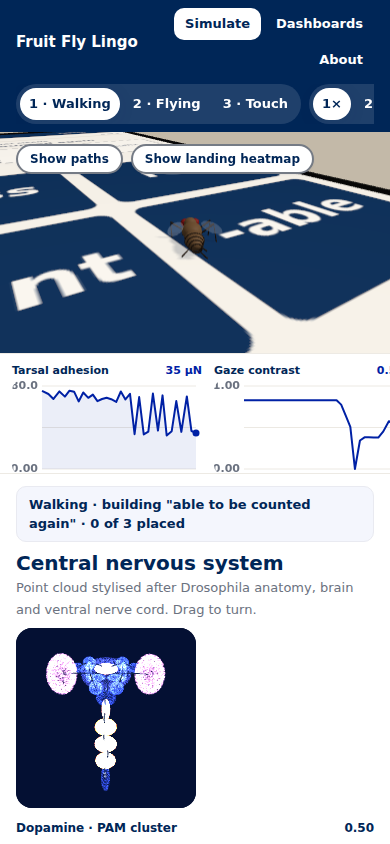
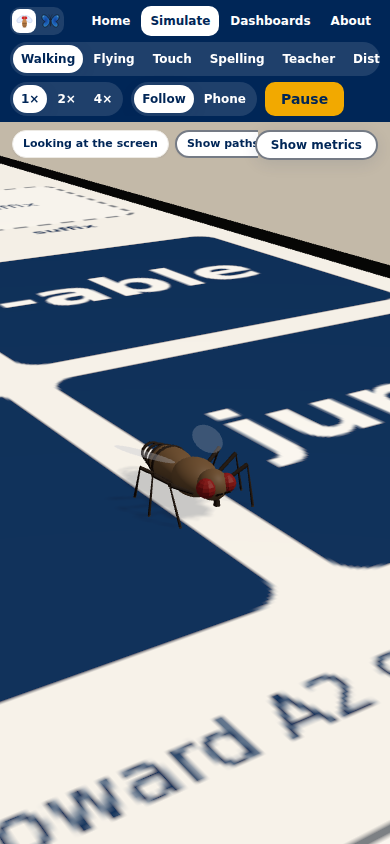
Mobile layout: a Hide metrics toggle and a full-screen arena on phones
A Hide metrics / Show metrics button hides the dashboard dock, the
telemetry strip and the scenario panel so the 3D view fills the stage, on
any screen size; phones start that way and the choice is remembered.
The experiment list now scrolls in place so speed, camera and Play are
always reachable; the follow camera pulls back on portrait screens; the
fly-eye inset gives way on short screens; landscape phones show only the
arena; the phase pill stays visible and the phone header is tighter.

diff --git a/index.html b/index.html
@@ -39,6 +39,7 @@ header .brand{display:flex;flex-direction:column;gap:2px;min-width:0}
 .seg{display:flex;gap:4px;padding:4px;background:rgba(255,255,255,.12);border-radius:999px;flex-shrink:0}
 .seg button{height:32px;padding:0 12px;border:0;border-radius:999px;background:transparent;color:#fff;font:700 14px/20px var(--display);cursor:pointer;white-space:nowrap}
 .seg button[aria-pressed="true"]{background:#fff;color:var(--dark-blue);box-shadow:var(--shadow-raised)}
+.simctl>.seg:first-child{flex-shrink:1;min-width:0;overflow-x:auto;scrollbar-width:none}.simctl>.seg:first-child::-webkit-scrollbar{display:none}
 .btn{display:inline-flex;align-items:center;justify-content:center;height:40px;padding:0 16px;border-radius:10px;font:700 16px/20px var(--display);cursor:pointer;border:2px solid transparent;text-decoration:none;white-space:nowrap}
 .btn-accent{background:var(--alachua);color:var(--dark-blue);border-color:var(--dark-blue)}
 header .btn-accent{border-color:var(--alachua);flex-shrink:0}
@@ -52,6 +53,13 @@ main{flex-grow:1;min-height:0;display:flex;flex-direction:column}
 /* ---- simulate ---- */
 #stage{position:relative;height:100%;display:grid;grid-template-columns:var(--dock-w) minmax(0,1fr) var(--panel-w);grid-template-rows:minmax(0,1fr) var(--dock-h)}
 #stage.nodock{--dock-w:0px}
+/* focus: hide every metrics panel so the 3D view fills the stage */
+#stage.focus{--dock-w:0px;--panel-w:0px;--dock-h:0px;grid-template-columns:minmax(0,1fr);grid-template-rows:minmax(0,1fr)}
+#stage.focus #scene{grid-column:1;grid-row:1}
+#stage.focus #dockLeft,#stage.focus #dockBottom,#stage.focus #brainPanel,#stage.focus #dockHide,#stage.focus #expNote{display:none}
+#metricsBtn{position:absolute;left:calc(var(--dock-w) + 16px);bottom:calc(var(--dock-h) + 16px);z-index:2;height:36px;padding:0 14px;font-size:13px;box-shadow:var(--shadow-raised)}
+@media (min-width:1281px){#stage:not(.focus) #metricsBtn{left:calc(var(--dock-w) + 136px)}}
+#stage.focus #metricsBtn{bottom:calc(16px + env(safe-area-inset-bottom,0px))}
 #vision{position:absolute;pointer-events:none}
 #scene{display:block;grid-column:2;grid-row:1;width:100%;height:100%;min-width:0;min-height:0;touch-action:none}
 #dockLeft{grid-column:1;grid-row:1/3;background:var(--surface-card);border-right:1px solid var(--border);display:flex;flex-direction:column;min-height:0;overflow:hidden}
@@ -231,10 +239,13 @@ pre.mermaid svg{max-width:none;height:auto}
   #stage{grid-template-columns:minmax(0,1fr);grid-template-rows:minmax(0,1fr) var(--dock-h) auto}
   #scene{grid-column:1;grid-row:1}
   #dockBottom{grid-column:1;grid-row:2}
-  #brainPanel{grid-column:1;grid-row:3;width:auto;max-height:44vh;border-left:0;border-top:1px solid var(--border);flex-direction:row;flex-wrap:wrap;gap:12px;padding:12px 16px}
+  #brainPanel{grid-column:1;grid-row:3;width:auto;max-height:34vh;border-left:0;border-top:1px solid var(--border);flex-direction:row;flex-wrap:wrap;gap:12px;padding:12px 16px}
+  #stage:not(.focus){grid-template-rows:minmax(52vh,1fr) var(--dock-h) auto}
+  #dockBottom .mini{flex:0 0 150px}
+  #metricsBtn,#stage.focus #metricsBtn{left:auto;right:12px;bottom:auto;top:8px;height:30px;font-size:12px}
   #brainPanel>section{flex:1 1 240px;min-width:0}
   #brain{width:180px;aspect-ratio:1/1}
-  #state{right:16px}#expNote{display:none}#eyeLabel{display:none}
+  #state{right:132px}#expNote{display:none}#eyeLabel{display:none}
   .tabs a{height:36px;padding:0 12px;font-size:14px}
   .span4,.span6,.span8{grid-column:span 12}
   .page-inner{padding:16px 16px 48px;gap:16px}
@@ -248,7 +259,21 @@ pre.mermaid svg{max-width:none;height:auto}
   .tabs{flex-wrap:wrap;justify-content:flex-end}
   .tabs a{height:32px;padding:0 9px;font-size:13px}
   .seg button{padding:0 9px;font-size:13px}
+  #state .pill:not(.toggle):not(#phasePill){display:none}
+  #state{flex-wrap:nowrap;overflow-x:auto;scrollbar-width:none;left:12px;right:132px;top:8px;gap:6px}
+  .brandrow h1{display:none}#state::-webkit-scrollbar{display:none}
+  #state .pill{flex-shrink:0;white-space:nowrap;height:28px;font-size:11px;padding:0 10px}
+  .simctl .btn{height:34px;padding:0 14px;font-size:14px}
+  .tabs{flex-wrap:nowrap;gap:2px}.tabs a{padding:0 7px;font-size:12px;height:30px}
+  header{padding:6px 10px;padding-top:calc(6px + env(safe-area-inset-top,0px));row-gap:6px}
+  .seg{padding:3px;gap:2px}.seg button{height:28px;padding:0 8px;font-size:12px}
+  .simctl{flex-wrap:wrap;row-gap:6px}.simctl>.seg:first-child{flex:1 0 100%}
+  :root{--dock-h:104px}#dockBottom .mini canvas{height:74px}
+}
+@media (max-height:520px) and (orientation:landscape){
+  header .eyebrow{display:none}header{padding-top:4px;padding-bottom:4px}
   #state .pill:not(.toggle){display:none}
+  #stage:not(.focus){grid-template-rows:minmax(0,1fr) 0 0}#stage:not(.focus) #dockBottom,#stage:not(.focus) #brainPanel{display:none}
 }
 @media (prefers-reduced-motion:reduce){.bar>span{transition:none}}
 </style>
@@ -385,6 +410,7 @@ pre.mermaid svg{max-width:none;height:auto}
       <div class="mini"><div class="rowlbl"><span id="msL5"></span><b id="msV5">–</b></div><canvas class="chart" id="ms5"></canvas></div>
     </div>
     <button type="button" id="dockHide" class="pill toggle" aria-pressed="true">Hide panel</button>
+    <button type="button" id="metricsBtn" class="pill toggle" aria-pressed="true" aria-controls="dockLeft dockBottom brainPanel">Hide metrics</button>
     <div id="state" aria-live="polite">
       <span class="pill" id="phasePill">Looking at the screen</span>
       <span class="pill" id="gripPill">Tarsal pads gripping glass</span>
@@ -2372,7 +2398,7 @@ eyeScene.add(new THREE.Mesh(new THREE.PlaneGeometry(2, 2), new THREE.ShaderMater
 })));
 function renderEye() {
   if (experiment === 7 || experiment === 11) return; // many flies: no single fly-eye view in the classroom
-  const r = sceneCanvas.getBoundingClientRect(); if (r.width < 700) return;
+  const r = sceneCanvas.getBoundingClientRect(); if (r.width < 700 || r.height < 460) return; // no room for the inset on a phone
   renderer.setRenderTarget(eyeRT); renderer.render(scene, eyeCam); renderer.setRenderTarget(null);
   const size = 220, pad = 16, x = r.width - size - pad;
   renderer.setScissorTest(true); renderer.setViewport(x, pad, size, size); renderer.setScissor(x, pad, size, size);
@@ -4676,10 +4702,10 @@ function setCamMode(m) {
   else if (m === 'phone' && EXP[experiment].ar) { /* follows the head every frame in updateCamera */ }
   else if (m === 'phone' && EXP[experiment].vrRig) { const c = vrScr.getWorldPosition(new THREE.Vector3()), nrm = new THREE.Vector3(0, 0, 1).applyQuaternion(vrScr.getWorldQuaternion(new THREE.Quaternion())); controls.target.copy(c); camera.position.copy(c).addScaledVector(nrm, 44).add(new THREE.Vector3(0, 6, 0)); }
   else if (m === 'phone' && EXP[experiment].tablet) { const c = bookPoint(512, 320); controls.target.copy(c); camera.position.copy(c).addScaledVector(bookNormal(), 150).add(new THREE.Vector3(-40, 20, 0)); }
-  else if (m === 'phone' && EXP[experiment].classroom) { controls.target.set(0, CLS.topY - 2, -10); camera.position.set(0, CLS.topY + 78, 104); }
+  else if (m === 'phone' && EXP[experiment].classroom) { const k = camera.aspect < 1 ? Math.min(2.2, Math.pow(1 / camera.aspect, 0.75)) : 1; controls.target.set(0, CLS.topY - 2, -10); camera.position.set(0, CLS.topY + 78 * k, -10 + 114 * k); }
   else if (m === 'phone' && EXP[experiment].laptop) { const L = laptop.position; controls.target.set(L.x, TABLE_Y + 60 * s, -30 * s); camera.position.set(L.x, TABLE_Y + 190 * s + (experiment === 5 ? 3 : 0), 300 * s + (experiment === 5 ? 5 : 0)); }
   else if (m === 'phone') { controls.target.set(0, screenTopY(), 0); camera.position.set(0, 120 * s + (experiment === 3 ? 2 : 0), 150 * s + (experiment === 3 ? 4 : 0)); }
-  else { const t = experiment === 11 ? VR_MID : experiment === 13 ? SC_MID : experiment === 14 ? PB_MID : experiment === 15 ? GEO_MID : flyState.pos; controls.target.copy(t); camera.position.copy(t).add(new THREE.Vector3(...EXP[experiment].camOffset).multiplyScalar(butterfly && !EXP[experiment].vrRig && !EXP[experiment].scrabble ? 1.7 : 1)); } // step back for the bigger butterfly
+  else { const t = experiment === 11 ? VR_MID : experiment === 13 ? SC_MID : experiment === 14 ? PB_MID : experiment === 15 ? GEO_MID : flyState.pos; controls.target.copy(t); camera.position.copy(t).add(new THREE.Vector3(...EXP[experiment].camOffset).multiplyScalar((butterfly && !EXP[experiment].vrRig && !EXP[experiment].scrabble ? 1.7 : 1) * (camera.aspect < 1 ? Math.min(2.2, Math.pow(1 / camera.aspect, 0.75)) : 1))); } // step back for the bigger butterfly, and for a narrow portrait screen
 }
 document.querySelectorAll('[data-cam]').forEach(b => b.addEventListener('click', () => setCamMode(b.dataset.cam)));
 
@@ -4687,6 +4713,7 @@ document.querySelectorAll('[data-cam]').forEach(b => b.addEventListener('click',
 function setExperiment(n) {
   const changed = experiment !== n; experiment = n; const cfg = EXP[n]; const s = cfg.phoneScale;
   document.querySelectorAll('[data-exp]').forEach(b => b.setAttribute('aria-pressed', String(Number(b.dataset.exp) === n)));
+  { const cur = document.querySelector(`.simctl [data-exp="${n}"]`), row = cur && cur.parentElement; if (row && row.scrollWidth > row.clientWidth) row.scrollTo({ left: cur.offsetLeft - row.clientWidth / 2 + cur.offsetWidth / 2, behavior: 'smooth' }); }
   $('expNote').textContent = cfg.note; $('physPill').textContent = cfg.phys;
   $('gripPill').textContent = n === 15 ? 'A foreleg taps the globe' : n === 14 ? 'Both forelegs grip the page' : n === 13 ? 'A foreleg carries each tile' : n === 12 ? 'A foreleg pinches the holograms' : n === 11 ? 'Six feet on the ball' : n === 10 ? 'Abdomen tip on the glass' : n === 9 ? 'Hovering · a foreleg taps the glass' : n === 8 ? 'One wing out to sing' : n === 7 ? '12 ♀ · 12 ♂' : n === 3 ? 'Forelegs holding the phone' : n === 4 ? 'Tarsal pads on the keys' : n >= 5 ? 'Foreleg on the trackpad' : 'Tarsal pads gripping glass';
   document.querySelectorAll('[data-cam="phone"]').forEach(b => { b.textContent = cfg.geo ? 'Globe' : cfg.paper ? 'Book' : cfg.scrabble ? 'Board' : cfg.ar ? 'Headset' : cfg.vrRig ? 'Laptop' : cfg.tablet ? 'Tablet' : cfg.classroom ? 'Classroom' : cfg.laptop ? 'Laptop' : 'Phone'; });
@@ -4769,6 +4796,7 @@ function resize() {
   if (b.width && b.height) { renderer2.setSize(b.width, b.height, false); camera2.aspect = b.width / b.height; camera2.updateProjectionMatrix(); }
 }
 new ResizeObserver(() => { const st = $('state'); $('expNote').style.top = (st.offsetTop + st.offsetHeight + 8) + 'px'; }).observe($('state')); // keep the note below the pill row when it wraps
+let lastPortrait = null; addEventListener('resize', () => { const pt = innerWidth < innerHeight; if (lastPortrait !== null && pt !== lastPortrait && camMode === 'follow') requestAnimationFrame(() => setCamMode('follow')); lastPortrait = pt; });
 new ResizeObserver(resize).observe(sceneCanvas); new ResizeObserver(resize).observe(brainCanvas); addEventListener('resize', resize);
 
 // ---------- Telemetry sampling ----------
@@ -4811,7 +4839,7 @@ function xlstmStep(s) {
 // ---------- Main loop ----------
 let last = performance.now(), hudAcc = 0, flashRedraw = 0;
 cur().parts.forEach(memoryOf);
-setExperiment(1); renderBrainHud(); resize();
+setExperiment(1); renderBrainHud(); resize(); setCamMode(camMode);
 document.getElementById('loading').hidden = true;
 function frame(now) {
   requestAnimationFrame(frame);
@@ -4852,7 +4880,7 @@ function setView(v) {
   Object.entries(VIEWS).forEach(([k, id]) => { document.getElementById(id).hidden = k !== v; });
   document.querySelectorAll('.tabs a').forEach(a => { if (a.dataset.view === v) a.setAttribute('aria-current', 'page'); else a.removeAttribute('aria-current'); });
   document.getElementById('simctl').hidden = v !== 'simulate';
-  if (v === 'simulate') { resize(); dock(dockChoice); }
+  if (v === 'simulate') { resize(); dock(dockChoice); setCamMode(camMode); const cur = document.querySelector(`.simctl [data-exp="${experiment}"]`); if (cur) cur.parentElement.scrollLeft = cur.offsetLeft - cur.parentElement.clientWidth / 2 + cur.offsetWidth / 2; } /* reframe for this screen's shape */
   else undockAll();
   if (v === 'dash') { sizeCharts(); drawDashboards(performance.now(), true); }
   if (v === 'about') loadMermaid();
@@ -4919,6 +4947,14 @@ document.getElementById('dockFold').addEventListener('click', e => { if (!docked
 document.getElementById('dockFull').addEventListener('click', e => { const t = e.currentTarget.dataset.target; setTimeout(() => { const el = t && document.getElementById(t); if (el) el.scrollIntoView(); }, 80); });
 document.querySelectorAll('[data-dock]').forEach(b => b.addEventListener('click', () => { dockChoice = b.dataset.dock; dock(dockChoice); }));
 const stageEl = document.getElementById('stage');
+// focus mode: every metrics panel hidden, the 3D view fills the stage. Phones start this way; the choice is remembered.
+function setFocus(on, save) {
+  stageEl.classList.toggle('focus', on); const b = document.getElementById('metricsBtn'); b.textContent = on ? 'Show metrics' : 'Hide metrics'; b.setAttribute('aria-pressed', String(!on));
+  if (save) { try { localStorage.setItem('ffl-focus', on ? '1' : '0'); } catch (e) { /* storage blocked */ } }
+  requestAnimationFrame(() => { resize(); sizeCharts(); if (typeof renderScenario === 'function') renderScenario(true); });
+}
+document.getElementById('metricsBtn').addEventListener('click', () => setFocus(!stageEl.classList.contains('focus'), true));
+{ let saved = null; try { saved = localStorage.getItem('ffl-focus'); } catch (e) { /* storage blocked */ } setFocus(saved != null ? saved === '1' : matchMedia('(max-width:860px)').matches, false); }
 document.getElementById('dockHide').addEventListener('click', () => { const on = stageEl.classList.toggle('nodock'); document.getElementById('dockLeft').hidden = on; document.getElementById('dockHide').textContent = on ? 'Show panel' : 'Hide panel'; document.getElementById('dockHide').setAttribute('aria-pressed', String(!on)); resize(); sizeCharts(); });
 function frameAxes(o, pad) { const { ctx, w, h } = o; ctx.clearRect(0, 0, w, h); ctx.strokeStyle = CH.grid; ctx.lineWidth = 1; ctx.beginPath(); for (let i = 0; i <= 2; i++) { const y = pad.t + (h - pad.t - pad.b) * i / 2; ctx.moveTo(pad.l, y); ctx.lineTo(w - pad.r, y); } ctx.stroke(); }
 function label(o, x, y, text, align = 'left', color = CH.muted) { const { ctx } = o; ctx.fillStyle = color; ctx.font = `700 11px ${DISPLAY}`; ctx.textAlign = align; ctx.textBaseline = 'middle'; ctx.fillText(text, x, y); }

diff --git a/CLAUDE.md b/CLAUDE.md
@@ -16,6 +16,7 @@ Fruit Fly Lingo is the interaction layer of the Embodied Drosophila Literacy Sim
 - In the Simulate view the left dashboard panel, the right scenario panel and the bottom six-chart strip all switch per experiment (DOCK_FOR, data-rp sections and scenarioCard, STRIPS in index.html); teacher and admin show their laptop screen and work queue instead of the brain.
 - A stylised 55,000-point nervous system lights up by region; the memory rule is Δw = η(R − V), η = 0.22; fifteen dashboards (kinematic, connectomic, psychometric with G-DINA, Half-Life Regression and a Rasch Wright map, curriculum with a toy mLSTM and Decision Transformer divergence, teacher navigation with Fitts' law, district proctoring, classroom social dynamics, phonics and wing song, reading stories aloud, writing Greek roots in cursive, VR classroom, AR word blocks, Scrabble, paper book, geography) run on live telemetry and also dock beside the arena.
 - Butterfly mode: the header's two logo buttons (data-species) call setSpecies; every wing group in WING_GROUPS carries the fly wing and a butterfly wing (addMorpho, wing sets from makeWingSet: MORPHO for the student and VR teacher, GNV_BUTTERFLIES, six Gainesville species, for the classroom); butterfly mode scales the fly by BF_SCALE 1.8 (classroom BF_SCALE_CLASS 1.3), and tailOffset scales with it, posed by morphoPose (closed at rest with basking, slow deep flaps, bobbing and weaving flight); fruit fly is the default and the choice is kept in localStorage.
+- Layout: #metricsBtn toggles #stage.focus (setFocus), which hides the dock, strip and scenario panel so the arena fills the stage; on by default at 860px wide or less, kept in localStorage ffl-focus. The experiment .seg scrolls within .simctl so speed, camera and Play stay visible; setCamMode pulls the follow camera back on portrait screens.
 - Views: Home (default, experiment cards), Simulate, Dashboards, About (research library with the PDFs under `docs/research/`, all 187 cited sources, and the README's Mermaid architecture diagrams).
 - Styling uses a University of Florida palette (core blue, dark blue, alachua, gator, bottlebrush) with Neulis Sans and Liebling and system fallbacks. Do not name the reading program the design tokens came from in the app or README.
 - Planned back end per the EDLS requirement document: MuJoCo `flybody` via WebAssembly at 800 Hz, the Fly-connectomic Graph Model on MaleCNS v1.0, xLSTM with TFLA on WebGPU, xAPI telemetry through a Science DMZ to a Learning Record Store.

diff --git a/README.md b/README.md
@@ -27,7 +27,9 @@ From a terminal with the Vercel CLI, `npx vercel` from the repository root does 
 
 The app is one page with four views, switched by the tabs in the header and by hash routes (`#home`, `#simulate`, `#dashboards`, `#about`). The home page explains the project and shows a card for each experiment; picking a card opens that experiment in the simulator.
 
-![The home page: a short explanation of the project and a grid of fifteen experiment cards](docs/screenshots/home.png) It works at phone width: the header controls become a scrollable strip, the brain panel docks under the arena, and the dashboards stack to one column.
+![The home page: a short explanation of the project and a grid of fifteen experiment cards](docs/screenshots/home.png) It works at phone width. The **Hide metrics / Show metrics** button in the arena hides every panel (the dashboard dock, the bottom strip and the scenario panel) so the 3D view fills the screen; phones start with the metrics hidden, and the choice is remembered. With metrics shown on a phone, the strip and the scenario panel sit under the arena, which keeps at least half the screen. The experiment list scrolls on its own line so speed, camera and Play stay in reach, the camera pulls back on a portrait screen, the fly-eye inset gives way on short screens, and a landscape phone shows only the arena. The dashboards stack to one column.
+
+![Phone layout: the Walking experiment filling the screen, the experiment list, speed, camera and Pause above it, and the Show metrics button](docs/screenshots/phone-simulate.png)
 
 | | |
 | --- | --- |
